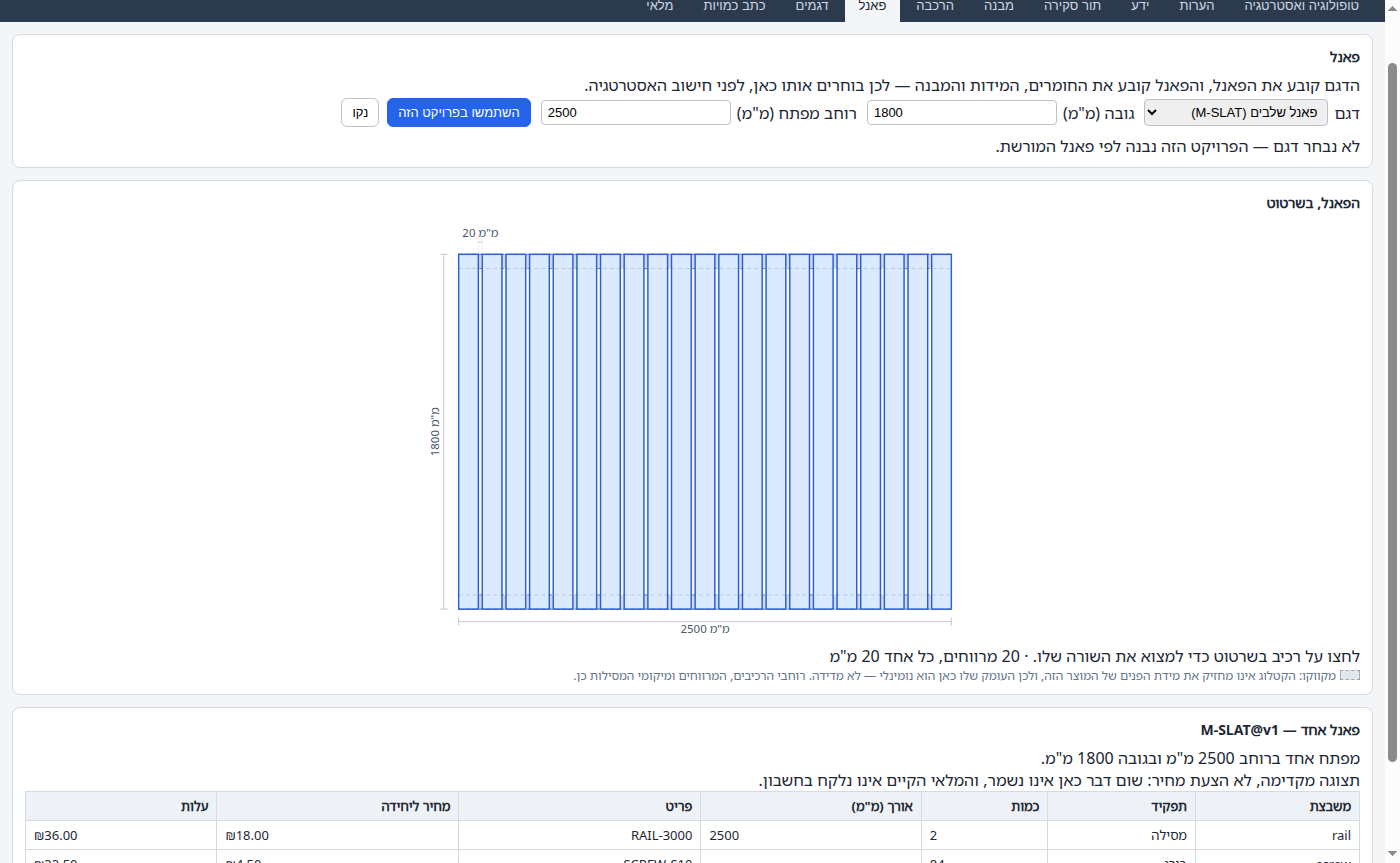
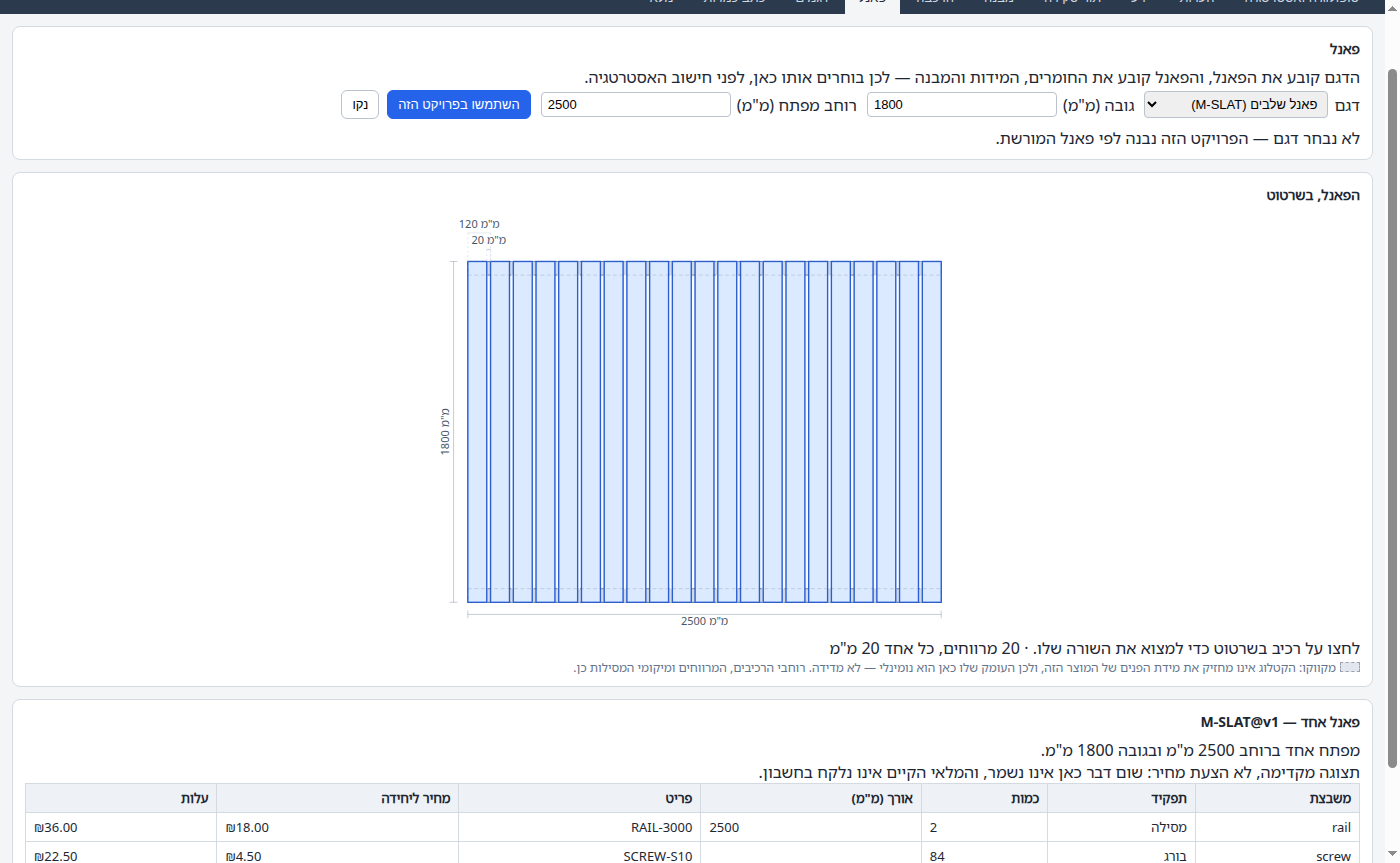
feat(web): the pitch and the edge margins, and one switch for both drawings
Two dimensions the request names that the panel drawing did not carry.

**Pitch** is the number a slat fence is actually specified by — "100 at 120
centres" — and neither the member width nor the gap states it alone. Measured
between two consecutive members' leading edges, which is a placement fact both
rectangles already carry, and emitted ONLY when it is constant across the placed
sequence: `spread_to_fit` absorbs its remainder into the gaps, so one pitch
quoted over an uneven pattern is a figure an installer would set out from and be
wrong by the last bay. The gap line already says the honest thing there.

**Edge margins** come back as a PAIR, because the two ends differ under
start/end justification and one figure would name the wrong end. Zero at both
ends draws nothing: a dimension line of length zero is a tick with a 0 beside
it, which reads as a mistake rather than as "flush".

Both read the pattern through `kind`, which is on the wire exactly so a client
need not guess: a two-rail frame slot and a two-slat pattern are the same shape
in these coordinates, and an "edge margin" between the opening and a rail
dimensions something nobody sets out.

The Assembly tab's dimension switch now drives the micro drawing too. They are
one drawing at two scales, and a tab where half the annotations vanish looks
broken rather than clean.

diff --git a/src/fenceai/web/static/js/elevation.js b/src/fenceai/web/static/js/elevation.js
@@ -37,6 +37,8 @@ const PAD_BOTTOM = 54;       // room for the width dimension
 const PAD_TOP = 18;
 const PAD_TOP_GAP = 60;      // …and for the fitted-gap dimension, when there is one
 const PAD_END_GAP = 76;      // (a horizontal pattern's gap is called out beside it)
+const CALLOUT_STEP = 30;     // one lane out for a second callout on the same side
+const MARGIN_ROW = 22;       // the edge-margin row, under the panel
 const TICK = 7;              // dimension tick half-length
 
 // Fill and edge come from the stylesheet, keyed by a role from a CLOSED set —
@@ -124,6 +126,86 @@ export function gapDimension(elev) {
   return null;
 }
 
+/** The pattern's PITCH — member plus the gap after it — or null.
+ *
+ * The number a slat fence is specified by ("100 at 150 centres"), and the one
+ * neither the member width nor the gap states on its own. Measured between two
+ * consecutive members' leading edges, which is a placement fact both rectangles
+ * already carry.
+ *
+ * Emitted only when the pitch is CONSTANT across the whole placed sequence. A
+ * `spread_to_fit` pattern absorbs its remainder into the gaps, so its members
+ * are not evenly pitched, and one pitch quoted over an uneven pattern is a
+ * number an installer would set out from and get wrong by the last bay. The gap
+ * line beside the drawing already says the honest thing there ("20–21 mm"). */
+
+/** The members of the fitted PATTERN, keyed by slot.
+ *
+ * `kind` is on the wire ("frame" | "infill") precisely so a client does not have
+ * to guess: a two-rail frame slot and a two-slat pattern are the same shape here,
+ * and calling out an "edge margin" between the opening and a rail would dimension
+ * something nobody set out. A run generated before `kind` existed carries "" for
+ * every member, and there the old behaviour (consider them all) is the only
+ * option — better a dimension derived from every member than none at all. */
+function patternSlots(elev) {
+  const members = elev?.members || [];
+  const typed = members.some((m) => m.kind);
+  const bySlot = new Map();
+  for (const m of members) {
+    if (typed && m.kind !== "infill") continue;
+    if (!bySlot.has(m.slot_key)) bySlot.set(m.slot_key, []);
+    bySlot.get(m.slot_key).push(m);
+  }
+  return bySlot;
+}
+
+export function pitchDimension(elev) {
+  for (const list of patternSlots(elev).values()) {
+    if (list.length < 3) continue;      // two members show a gap, not a rhythm
+    const seq = [...list].sort((a, b) => a.index - b.index);
+    const vertical = seq.every((m, i) => i === 0 || m.y_mm === seq[0].y_mm);
+    const axis = vertical ? "x" : "y";
+    const at = (m) => (axis === "x" ? m.x_mm : m.y_mm);
+    const pitches = seq.slice(1).map((m, i) => at(m) - at(seq[i]));
+    if (!pitches.length || pitches.some((p) => p !== pitches[0] || p <= 0)) continue;
+    const a = seq[0];
+    const b = seq[1];
+    return {
+      axis, value_mm: pitches[0], from_mm: at(a), to_mm: at(b),
+      cross_mm: axis === "x" ? a.y_mm + a.h_mm : a.x_mm + a.w_mm,
+      slot_key: a.slot_key,
+    };
+  }
+  return null;
+}
+
+/** What is left clear at each end of the pattern, or null.
+ *
+ * `edge_margin_mm` is authored on the infill and the fit spends it; on the wire
+ * it survives as the distance between the opening edge and the outermost
+ * member, which is what the drawing measures — the same two rectangles the
+ * renderer is already placing. Reported as a PAIR because the two ends differ
+ * under `start`/`end` justification, and one figure would name the wrong end. */
+export function edgeMargins(elev) {
+  const width = elev?.width_mm || 0;
+  const height = elev?.height_mm || 0;
+  for (const list of patternSlots(elev).values()) {
+    if (list.length < 2) continue;
+    const seq = [...list].sort((a, b) => a.index - b.index);
+    const vertical = seq.every((m) => m.y_mm === seq[0].y_mm && m.h_mm === seq[0].h_mm);
+    const first = seq[0];
+    const last = seq[seq.length - 1];
+    const start = vertical ? first.x_mm : first.y_mm;
+    const end = vertical ? width - (last.x_mm + last.w_mm)
+                         : height - (last.y_mm + last.h_mm);
+    if (start <= 0 && end <= 0) continue;   // flush both ends: nothing to call out
+    return { axis: vertical ? "x" : "y", start_mm: Math.max(start, 0),
+             end_mm: Math.max(end, 0), slot_key: first.slot_key,
+             cross_mm: vertical ? first.y_mm + first.h_mm : first.x_mm + first.w_mm };
+  }
+  return null;
+}
+
 /** The sentence that goes beside the drawing: the gaps, in the display unit. */
 export function gapLine(elev) {
   const g = gapSummary(elev);
@@ -141,17 +223,26 @@ export function gapLine(elev) {
  *  `onSelect(slotKey)` fires when a member is clicked. The renderer never
  *  reaches out of its own SVG: which row that highlights is the CALLER's table
  *  and the caller's business. */
-export function renderElevation(elev, { onSelect } = {}) {
+export function renderElevation(elev, { onSelect, annotations = true } = {}) {
   const w = elev?.width_mm || 0;
   const h = elev?.height_mm || 0;
   const rects = elevationRects(elev);
   if (!(w > 0) || !(h > 0) || !rects.length) return null;
 
-  const dim = gapDimension(elev);
+  const dim = annotations ? gapDimension(elev) : null;
+  const pitch = annotations ? pitchDimension(elev) : null;
+  const margins = annotations ? edgeMargins(elev) : null;
   // the gap callout is drawn clear of the panel, so it needs the room: above a
-  // vertical pattern, beyond the end edge of a horizontal one
-  const padTop = dim?.axis === "x" ? PAD_TOP_GAP : PAD_TOP;
-  const padEnd = dim?.axis === "y" ? PAD_END_GAP : PAD_END;
+  // vertical pattern, beyond the end edge of a horizontal one — and the pitch
+  // sits one line beyond the gap on the same side, because they measure the
+  // same rhythm and reading them apart is reading them twice
+  const above = [dim, pitch].filter((d) => d?.axis === "x").length;
+  const beside = [dim, pitch].filter((d) => d?.axis === "y").length;
+  const padTop = above ? PAD_TOP_GAP + (above - 1) * CALLOUT_STEP : PAD_TOP;
+  const padEnd = beside ? PAD_END_GAP + (beside - 1) * CALLOUT_STEP : PAD_END;
+  // the edge margins take their own row under the panel, and push the overall
+  // width dimension down rather than sharing a line with it
+  const padBottom = PAD_BOTTOM + (margins ? MARGIN_ROW : 0);
   // one scale for both axes: a drawing that stretched to fill its box would
   // make a 100 mm slat and a 20 mm gap look like the same thing
   const s = Math.min(MAX_DRAW_W / w, MAX_DRAW_H / h);
@@ -160,7 +251,7 @@ export function renderElevation(elev, { onSelect } = {}) {
   const x0 = PAD_START;
   const y0 = padTop;
   const vw = PAD_START + dw + padEnd;
-  const vh = padTop + dh + PAD_BOTTOM;
+  const vh = padTop + dh + padBottom;
   const px = (mm) => x0 + mm * s;
   const py = (mm) => y0 + mm * s;
 
@@ -197,11 +288,21 @@ export function renderElevation(elev, { onSelect } = {}) {
       width: r(Math.max(m.w_mm * s, 0.5)), height: r(Math.max(m.h_mm * s, 0.5)),
     }, edges);
 
-  dimension(svg, "x", x0, y0 + dh + 22, x0 + dw, y0 + dh + 22,
-            tu("elevation.length", { len_mm: w }));
-  dimension(svg, "y", x0 - 26, y0, x0 - 26, y0 + dh,
-            tu("elevation.length", { len_mm: h }));
-  if (dim) drawGap(svg, dim, { px, py, w, h, y0 });
+  if (annotations) {
+    const widthRow = y0 + dh + 22 + (margins ? MARGIN_ROW : 0);
+    dimension(svg, "x", x0, widthRow, x0 + dw, widthRow,
+              tu("elevation.length", { len_mm: w }));
+    dimension(svg, "y", x0 - 26, y0, x0 - 26, y0 + dh,
+              tu("elevation.length", { len_mm: h }));
+    if (dim) drawGap(svg, dim, { px, py, w, h, y0, lane: 0 });
+    // the pitch goes one lane out from the gap when both are on the same side
+    if (pitch)
+      drawGap(svg, { ...pitch, gap_mm: pitch.value_mm,
+                     start_mm: pitch.from_mm, end_mm: pitch.to_mm },
+              { px, py, w, h, y0, lane: dim?.axis === pitch.axis ? 1 : 0,
+                cls: "elev-pitch-dim" });
+    if (margins) drawMargins(svg, margins, { px, py, w, h, x0, y0, dw, dh });
+  }
 
   if (onSelect) {
     svg.addEventListener("click", (ev) => {
@@ -252,13 +353,13 @@ function dimension(svg, axis, x1, y1, x2, y2, label) {
 // The fitted gap, called out clear of the panel: above it for a vertical
 // pattern, beside it for a horizontal one, because a 20 mm label drawn INSIDE a
 // 20 mm gap is a label nobody can read.
-function drawGap(svg, dim, { px, py, w, h, y0 }) {
-  const g = el("g", { class: "elev-dim elev-gap-dim" }, svg);
+function drawGap(svg, dim, { px, py, w, h, y0, lane = 0, cls = "elev-gap-dim" }) {
+  const g = el("g", { class: `elev-dim ${cls}` }, svg);
   const label = tu("elevation.length", { len_mm: dim.gap_mm });
   if (dim.axis === "x") {
     const x1 = px(dim.start_mm);
     const x2 = px(dim.end_mm);
-    const y = y0 - 22;
+    const y = y0 - 22 - lane * CALLOUT_STEP;
     el("line", { x1: r(x1), y1: r(y), x2: r(x2), y2: r(y) }, g);
     for (const x of [x1, x2])
       el("line", { class: "elev-leader", x1: r(x), y1: r(y), x2: r(x),
@@ -270,7 +371,7 @@ function drawGap(svg, dim, { px, py, w, h, y0 }) {
   // horizontal pattern: the gap runs up the panel, so the callout goes beside it
   const y1 = py(h - dim.start_mm);
   const y2 = py(h - dim.end_mm);
-  const x = px(w) + 20;
+  const x = px(w) + 20 + lane * CALLOUT_STEP;
   el("line", { x1: r(x), y1: r(y1), x2: r(x), y2: r(y2) }, g);
   for (const y of [y1, y2])
     el("line", { class: "elev-leader", x1: r(px(dim.cross_mm)), y1: r(y), x2: r(x), y2: r(y) }, g);
@@ -280,3 +381,46 @@ function drawGap(svg, dim, { px, py, w, h, y0 }) {
 }
 
 const r = (n) => Math.round(n * 10) / 10;
+
+/** What is left clear at each end of the pattern, dimensioned under the panel.
+ *
+ * On its own row rather than sharing the width dimension's line: the two answer
+ * different questions ("how wide is the opening" against "how far in does the
+ * infill start"), and a reader who has to work out which tick belongs to which
+ * has been given a puzzle instead of a dimension. A zero margin is drawn as
+ * nothing at all — a dimension line of length zero is a tick with a 0 beside it,
+ * which reads as a mistake. */
+function drawMargins(svg, margins, { px, py, w, h, x0, y0, dw, dh }) {
+  const g = el("g", { class: "elev-dim elev-margin-dim" }, svg);
+  if (margins.axis === "x") {
+    const y = y0 + dh + 14;
+    if (margins.start_mm > 0) marginSpan(g, x0, px(margins.start_mm), y, margins.start_mm);
+    if (margins.end_mm > 0)
+      marginSpan(g, px(w - margins.end_mm), x0 + dw, y, margins.end_mm);
+    return;
+  }
+  // a horizontal pattern's margins run up the panel, so they are called out on
+  // the start edge beside the height dimension
+  const x = x0 - 14;
+  if (margins.start_mm > 0)
+    marginSpan(g, x, x, y0 + dh, margins.start_mm, py(h - margins.start_mm));
+  if (margins.end_mm > 0)
+    marginSpan(g, x, x, y0, margins.end_mm, py(margins.end_mm));
+}
+
+function marginSpan(g, x1, x2, y, value_mm, yEnd) {
+  const vertical = yEnd !== undefined;
+  el("line", vertical
+    ? { x1: r(x1), y1: r(x2), x2: r(x1), y2: r(yEnd) }
+    : { x1: r(x1), y1: r(y), x2: r(x2), y2: r(y) }, g);
+  const label = el("text", {
+    class: "elev-dim-label elev-margin-label",
+    x: r(vertical ? x1 - 4 : (x1 + x2) / 2),
+    y: r(vertical ? (x2 + yEnd) / 2 : y - 4),
+    "text-anchor": "middle",
+  }, g);
+  if (vertical)
+    label.setAttribute("transform",
+      `rotate(-90 ${r(x1 - 4)} ${r((x2 + yEnd) / 2)})`);
+  label.textContent = tu("elevation.length", { len_mm: value_mm });
+}

diff --git a/src/fenceai/web/static/style.css b/src/fenceai/web/static/style.css
@@ -358,6 +358,10 @@ svg#canvas.panning, svg#canvas.panning * { cursor: grabbing !important; }
   pointer-events: none; }
 .elev-dim line { stroke: #94a3b8; stroke-width: 1; }
 .elev-dim line.elev-leader { stroke: #cbd5e1; stroke-dasharray: 4 4; }
+/* the pitch and the edge margins are secondary to the gap they describe: same
+   ink, lighter, so the drawing does not become a page of numbers */
+.elev-pitch-dim line, .elev-margin-dim line { stroke: #cbd5e1; }
+.elev-margin-label { font-size: 17px; fill: #64748b; }
 .elev-dim-label { font-size: 20px; fill: #475569; }
 /* the drawing and the priced table select together, in both directions */
 #panel-parts tr[data-slot] { cursor: pointer; }

diff --git a/src/fenceai/web/static/js/assembly.js b/src/fenceai/web/static/js/assembly.js
@@ -538,7 +538,10 @@ function renderMicro() {
   });
 
   const draw = host.querySelector("#assembly-micro-draw");
-  const svg = renderElevation(drawn, { onSelect: selectSlot });
+  // one dimension switch for both viewports: they are one drawing at two
+  // scales, and a tab where half the annotations vanish is a tab that looks
+  // broken rather than one that looks clean
+  const svg = renderElevation(drawn, { onSelect: selectSlot, annotations });
   if (!svg) {
     draw.innerHTML = `<div class="meta">${esc(t("elevation.empty"))}</div>`;
     return;

diff --git a/tests/web/test_elevation_module.py b/tests/web/test_elevation_module.py
@@ -49,7 +49,8 @@ globalThis.fetch = async (url) => ({
 import { setLocale } from "./js/i18n.js";
 import { setUnits } from "./js/units.js";
 import {
-  elevationRects, gapDimension, gapLine, gapSummary, hasNominal,
+  edgeMargins, elevationRects, gapDimension, gapLine, gapSummary, hasNominal,
+  pitchDimension,
 } from "./js/elevation.js";
 
 const SLAT = %(slat)s;
@@ -129,6 +130,54 @@ out.he_empty = gapLine(LEGACY);
 
 // a range rather than one figure — the reason gaps_mm is a LIST
 out.he_range = gapLine({ ...SLAT, gaps_mm: [20, 21, 20] });
+
+// --- pitch and edge margins, the two dimensions a slat fence is specified by
+out.pitch = pitchDimension(SLAT);
+out.pitch_legacy = pitchDimension(LEGACY);
+// an UNEVEN pattern has no single pitch, and one quoted over it is a figure an
+// installer would set out from and be wrong by the last bay
+const uneven = { ...SLAT, members: SLAT.members.map(
+  (m) => (m.slot_key === "slat" && m.index === 3 ? { ...m, x_mm: m.x_mm + 7 } : m)) };
+out.pitch_uneven = pitchDimension(uneven);
+// two members show a gap, not a rhythm
+out.pitch_two = pitchDimension({
+  ...SLAT,
+  members: SLAT.members.filter((m) => m.slot_key === "slat" && m.index < 2),
+});
+// M-SLAT fills its bay exactly: 21 slats at 120 centres is 2500 mm, flush at
+// both ends, so there is no margin to call out. The pattern WITH a margin is
+// built by hand, because no demo model authors one.
+out.margins = edgeMargins(SLAT);
+out.margins_inset = edgeMargins({
+  width_mm: 1000, height_mm: 1000, gaps_mm: [100, 100],
+  members: [0, 1, 2].map((i) => ({
+    slot_key: "s", role: "infill", kind: "infill", index: i,
+    x_mm: 50 + i * 200, y_mm: 0, w_mm: 100, h_mm: 1000,
+    declared: true, face: "front", sku: "A",
+  })),
+});
+// a FRAME slot is never mistaken for the pattern: two rails inset from the top
+// and bottom of the opening are not an edge margin anyone sets out
+out.margins_frame_only = edgeMargins({
+  width_mm: 1000, height_mm: 1000, gaps_mm: [],
+  members: [0, 1].map((i) => ({
+    slot_key: "rail", role: "rail", kind: "frame", index: i,
+    x_mm: 0, y_mm: 100 + i * 700, w_mm: 1000, h_mm: 40,
+    declared: true, face: "front", sku: "R",
+  })),
+});
+// flush at both ends: nothing to call out, rather than two zeros
+const flush = {
+  width_mm: 300, height_mm: 1000, gaps_mm: [100],
+  members: [
+    { slot_key: "s", role: "infill", index: 0, x_mm: 0, y_mm: 0, w_mm: 100,
+      h_mm: 1000, declared: true, face: "front", sku: "A" },
+    { slot_key: "s", role: "infill", index: 1, x_mm: 200, y_mm: 0, w_mm: 100,
+      h_mm: 1000, declared: true, face: "front", sku: "A" },
+  ],
+};
+out.margins_flush = edgeMargins(flush);
+out.pitch_flush = pitchDimension(flush);   // only two members: no rhythm
 
 console.log(JSON.stringify(out));
 """
@@ -219,3 +268,48 @@ def test_the_gap_line_localizes_and_converts(ev):
     assert "gaps" not in ev["he_gaps"] and "mm" not in ev["he_gaps"]
     assert ev["he_empty"] == ""
     assert "20–21" in ev["he_range"]
+
+
+# --- pitch and edge margins -------------------------------------------------
+
+def test_the_pattern_pitch_is_the_number_a_slat_fence_is_specified_by(ev):
+    """"100 at 120 centres" — a figure neither the member width nor the gap
+    states on its own, and the one an installer sets out from."""
+    assert ev["pitch"]["value_mm"] == 120
+    assert ev["pitch"]["axis"] == "x"
+    assert ev["pitch"]["slot_key"] == "slat"
+
+
+def test_an_uneven_pattern_gets_no_pitch_rather_than_an_average(ev):
+    """`spread_to_fit` absorbs its remainder into the gaps, so its members are
+    not evenly pitched. One pitch quoted over that is a number that is wrong by
+    the last bay — and the gap line beside the drawing already says the honest
+    thing ("20-21 mm")."""
+    assert ev["pitch_uneven"] is None
+    assert ev["pitch_two"] is None, "two members are a gap, not a rhythm"
+    assert ev["pitch_flush"] is None
+    assert ev["pitch_legacy"] is None, "a frame-only panel has no pattern at all"
+
+
+def test_the_edge_margins_are_reported_as_a_pair(ev):
+    """The two ends differ under start/end justification, so one figure would
+    name the wrong end. 50 in at the start, 1000 - (450 + 100) = 450 at the far
+    end."""
+    assert ev["margins_inset"]["start_mm"] == 50
+    assert ev["margins_inset"]["end_mm"] == 450
+    assert ev["margins_inset"]["axis"] == "x"
+    # M-SLAT fills its own bay exactly — 21 slats at 120 centres is 2500 mm
+    assert ev["margins"] is None
+
+
+def test_a_frame_slot_is_never_read_as_the_pattern(ev):
+    """Two rails inset from the top and bottom of an opening are not an edge
+    margin: nobody sets out from that figure, and `kind` is on the wire so a
+    client does not have to guess which slot is the infill."""
+    assert ev["margins_frame_only"] is None
+
+
+def test_a_pattern_flush_at_both_ends_gets_no_margin_dimension(ev):
+    """A dimension line of length zero is a tick with a 0 beside it, which reads
+    as a mistake rather than as "flush"."""
+    assert ev["margins_flush"] is None

diff --git a/tools/ui_smoke.py b/tools/ui_smoke.py
@@ -2066,9 +2066,12 @@ fetch('/api/fence-models').then(r => r.json())
       && slats.every((r, i) => i === 0 || box(r).left > box(slats[i - 1]).left),
   };
 })()""")
+        # 120 mm is the PITCH — a 100 mm slat plus its 20 mm gap, the figure a
+        # slat fence is actually specified by and the one neither the member
+        # width nor the gap states on its own
         check("the elevation reads the same way round in English, with English labels",
               en_drawn["slats"] == 21 and en_drawn["ascending"]
-              and set(en_drawn["dims"]) == {"2500 mm", "1800 mm", "20 mm"}
+              and set(en_drawn["dims"]) == {"2500 mm", "1800 mm", "20 mm", "120 mm"}
               and "20 gaps" in en_drawn["gaps"])
         c.shot("05b-panel-elevation-en.png")
 
